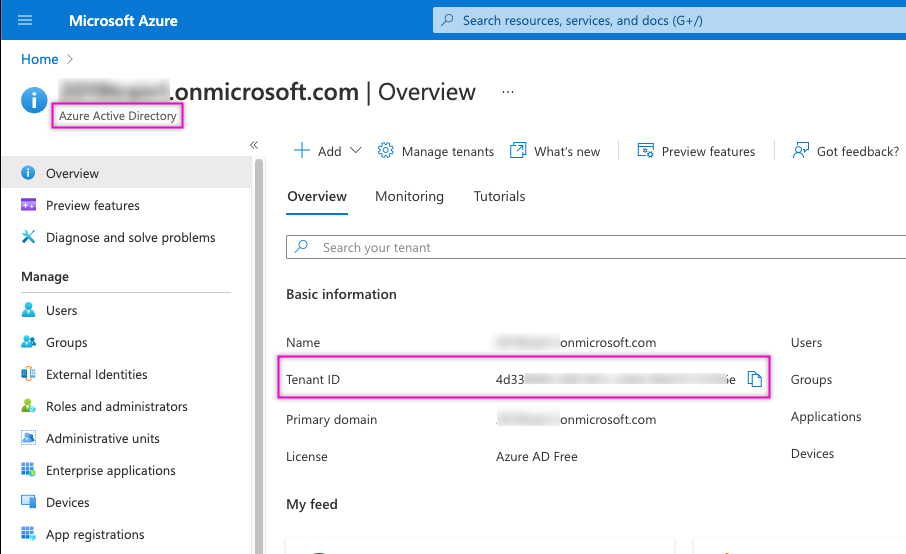
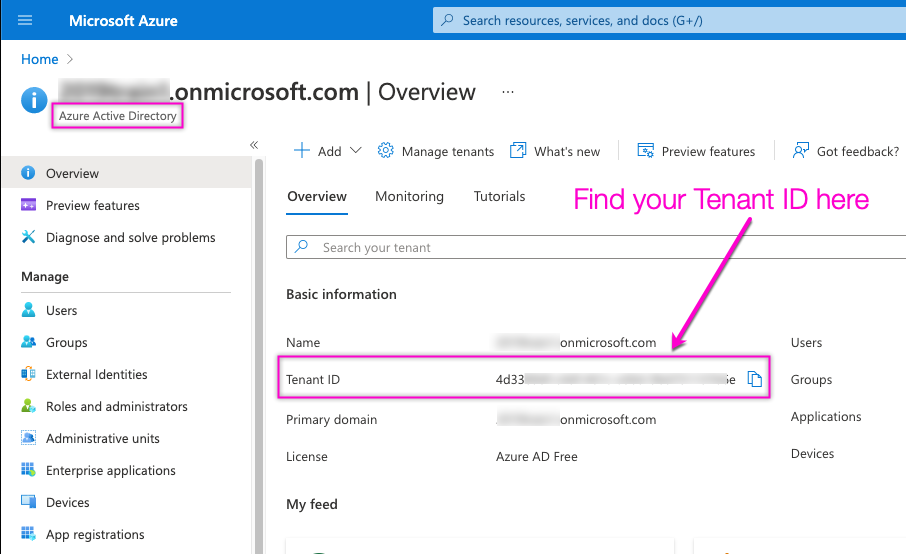
d

Changed region(s): [[0.6181, 0.3375, 0.9581, 0.4603], [0.7726, 0.4603, 0.8035, 0.5523], [0.7417, 0.5523, 0.7726, 0.6444]]

diff --git a/src/docs/spot-pc/features/concepts/security.md b/src/docs/spot-pc/features/concepts/security.md
@@ -2,18 +2,26 @@
 
 # Spot PC: Security
 
-## Spot PC Admin Security
-- Identity Providers with MFA
-- Cross-tenant access, data isolation
-- Granular permissions, per-tenant
+## Summary
+Spot PC is a managed virtual desktop service, available exclusively in Microsoft Azure and based on the Azure Virtual Desktop and Windows 365 components. The security model for Spot PC is based on a multi-tier, multi-identity structure that follows Microsoft best practices for securing the environment for virtual desktop end users, partner and customer administrators, and Spot support administrators.
 
+Customer segregation using the Microsoft tenant model is a primary design principle of Spot PC. Each Spot PC tenant (customer) is aligned on a one-to-one basis with an Azure tenant.  Business entities, such as Cloud Service Providers (CSPs), Managed Service Providers (MSPs), Independent Software Vendors (ISVs), or enterprises with multiple business units, Spot PC provides a managing entity called an Organization that can access multiple tenants using a single administrator identity.
 
-## Spot PC Virtual Machine Security
-- Azure Defender for Server
+The security layers for Spot PC can be broken down into the personas or roles that will access the environment:
 
-## Spot PC User Security
-- AVD Reverse Connect
-- Azure AD Identity with Conditional Access
+Virtual desktop end users – day to day users of Spot PCs and cloud PCs. End Users can access the environment from a wide range of locations and physical device types.
+Partner administrators – MSP, CSP, and ISV administrators with virtual desktop management responsibility for multiple customers
+Customer administrators – customer staff members responsible for managing virtual desktops or acting as the primary troubleshooting contact.
+Spot support administrator – Spot by NetApp team members that provide active support for troubleshooting and optimizing the virtual desktop environment.
+Automation components and workflows – Spot PC automates the deployment, configuration, optimization, and management of the virtual desktops using authenticated services in the Azure tenant.
+Spot PC also integrates active endpoint detection and response (EDR) and anti-malware components to monitor and expose malware attack vectors for the session virtual machines.
+
+The purpose of this document is to define the security profile for both the persona-based access and automated security monitoring components of the service.
+
+## Architecture
+Spot PC components are deployed into Azure, with a split between Tenant (customer) based components and the Spot PC web application and API, which is a SaaS application available to all Spot PC customers and partners. The tenant-based components are deployed to an Azure subscription created by the Spot PC deployment process and linked to the customer’s Azure tenant and Azure Active Directory (AAD) domain.  This structure allows Spot by NetApp to incur the costs for the Azure components while also supporting segregation of each Spot tenant to its associated Azure tenant.
+
+The diagram below illustrates the main components of a Spot PC instance.  End user experience – authentication, routing, and virtual desktop session – are primarily controlled by the Azure Virtual Desktop and Windows 365 services. Spot PC provides automation and management of these services using additional Azure components as defined below. Note that AVD/Windows 365 hybrid deployments require both Azure Active Directory and Active Directory components, so Spot PC components are configured with the identity, permissions, and authentication appropriate for each security realm.
 
 ## What’s Next?
 

diff --git a/src/docs/spot-pc/getting-started/onboarding-workflow.md b/src/docs/spot-pc/getting-started/onboarding-workflow.md
@@ -14,13 +14,18 @@ The onboarding workflow has seven steps, each step is outlined below.
 
 ## Connect Your Azure Account
 
-Enter the Tenant ID for the Azure AD tenant where the Spot PC users are located. This can be found in the Azure AD section of the Azure portal: https://portal.azure.com/#blade/Microsoft_AAD_IAM/ActiveDirectoryMenuBlade/Overview
+Enter the Tenant ID for the Azure AD tenant where the Spot PC users are located.
+
+### Locating your Tenant ID
+Your Tenant ID can be found in the Azure AD section of the Azure portal: https://portal.azure.com/#blade/Microsoft_AAD_IAM/ActiveDirectoryMenuBlade/Overview
 
 <a href="https://docs.spot.io/spot-pc/_media/onboarding-workflow-04.png" target="_blank"><img src="/spot-pc/_media/onboarding-workflow-04.png" alt="Click to Enlarge" width="1000"> </a>
 
 ## Authorize Spot PC Discovery
 
 Spot PC uses an Azure Enterprise application to discover the existing Azure tenant's networks and to locate the AD DC (or Azure AD Domain Service). Deploying this Enterprise App requires an additional permission set be granted by the Azure admin account.
+
+After clicking _Authorize Spot PC Discovery_ you'll be asked to login with an Azure admin that has the Azure Tenant Owner role assigned.  The specific permissions requested are required for Spot PC automation to deploy and manage the Spot PC environment.  
 
 <a href="https://docs.spot.io/spot-pc/_media/onboarding-workflow-05.png" target="_blank"><img src="/spot-pc/_media/onboarding-workflow-05.png" alt="Click to Enlarge" width="1000"> </a>
 
@@ -136,4 +141,4 @@ As the automation runs and builds the Spot PC environment, several milestones ar
 
 ## What’s Next?
 
-Learn more about [Getting Started](spot-pc/getting-started/) with Spot PC.
+Learn how to [deploy](spot-pc/tutorials/deploy-spot-pc) your first Spot PC environment .

diff --git a/src/docs/spot-pc/README.md b/src/docs/spot-pc/README.md
@@ -138,4 +138,4 @@ Spot PC co-management is a collaboration between Spot by NetApp, the IT administ
 
 ## What's Next?
 
-Learn how to [Get Started with Spot PC](spot-pc/getting-started/) today.
+Learn how to [Get Started with Spot PC](spot-pc/getting-started/onboarding-workflow) today.
